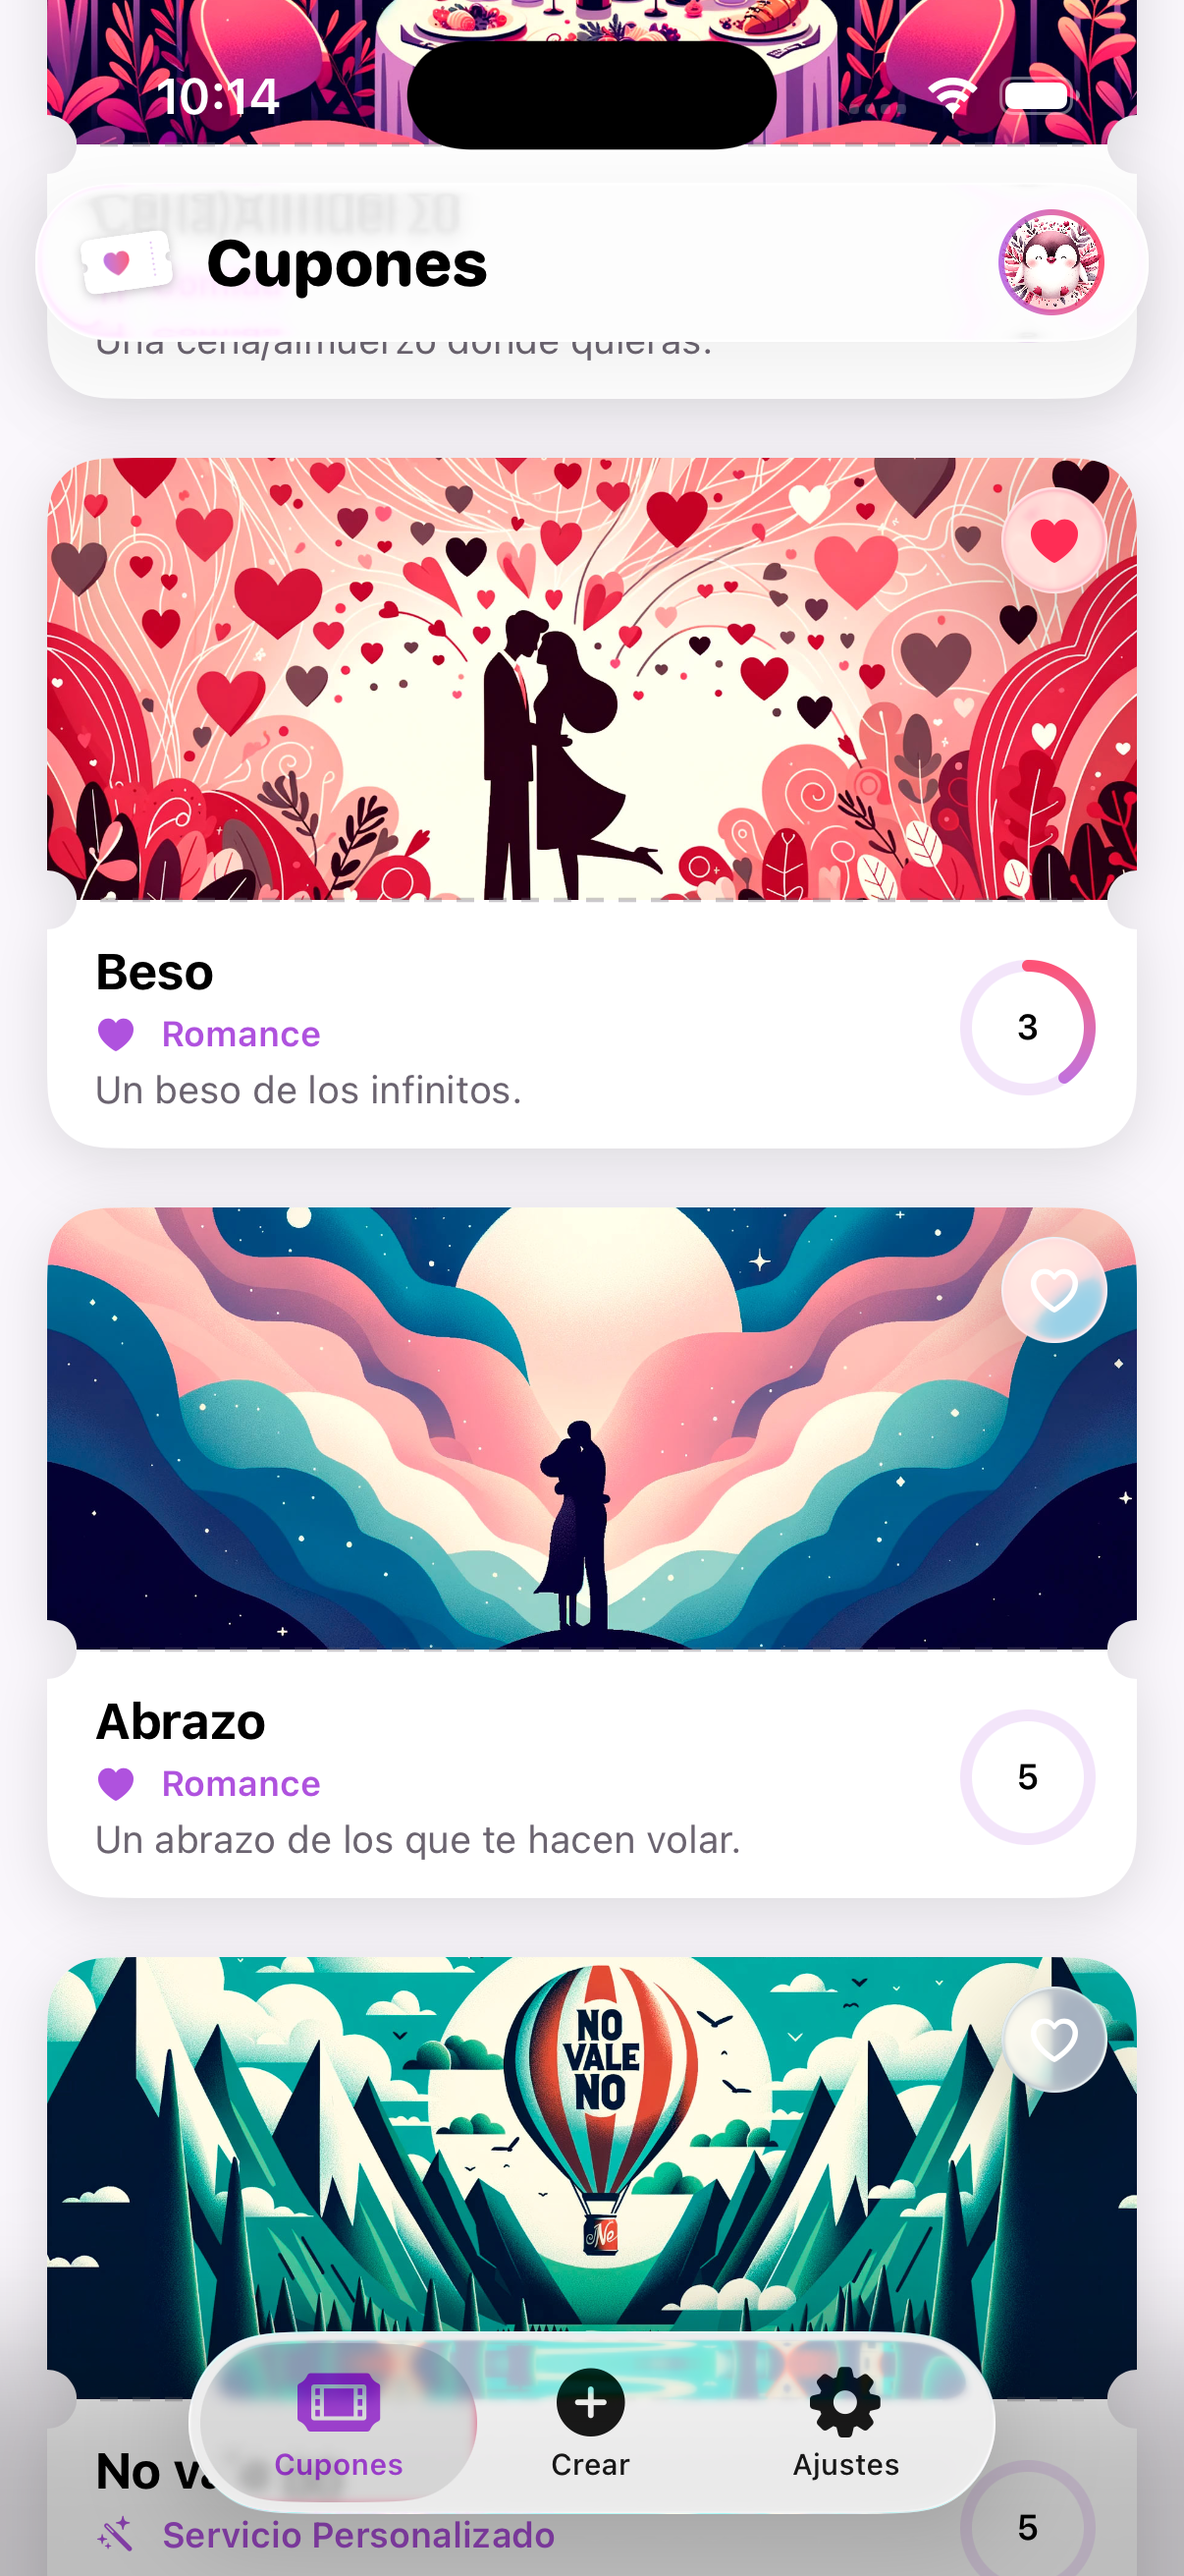
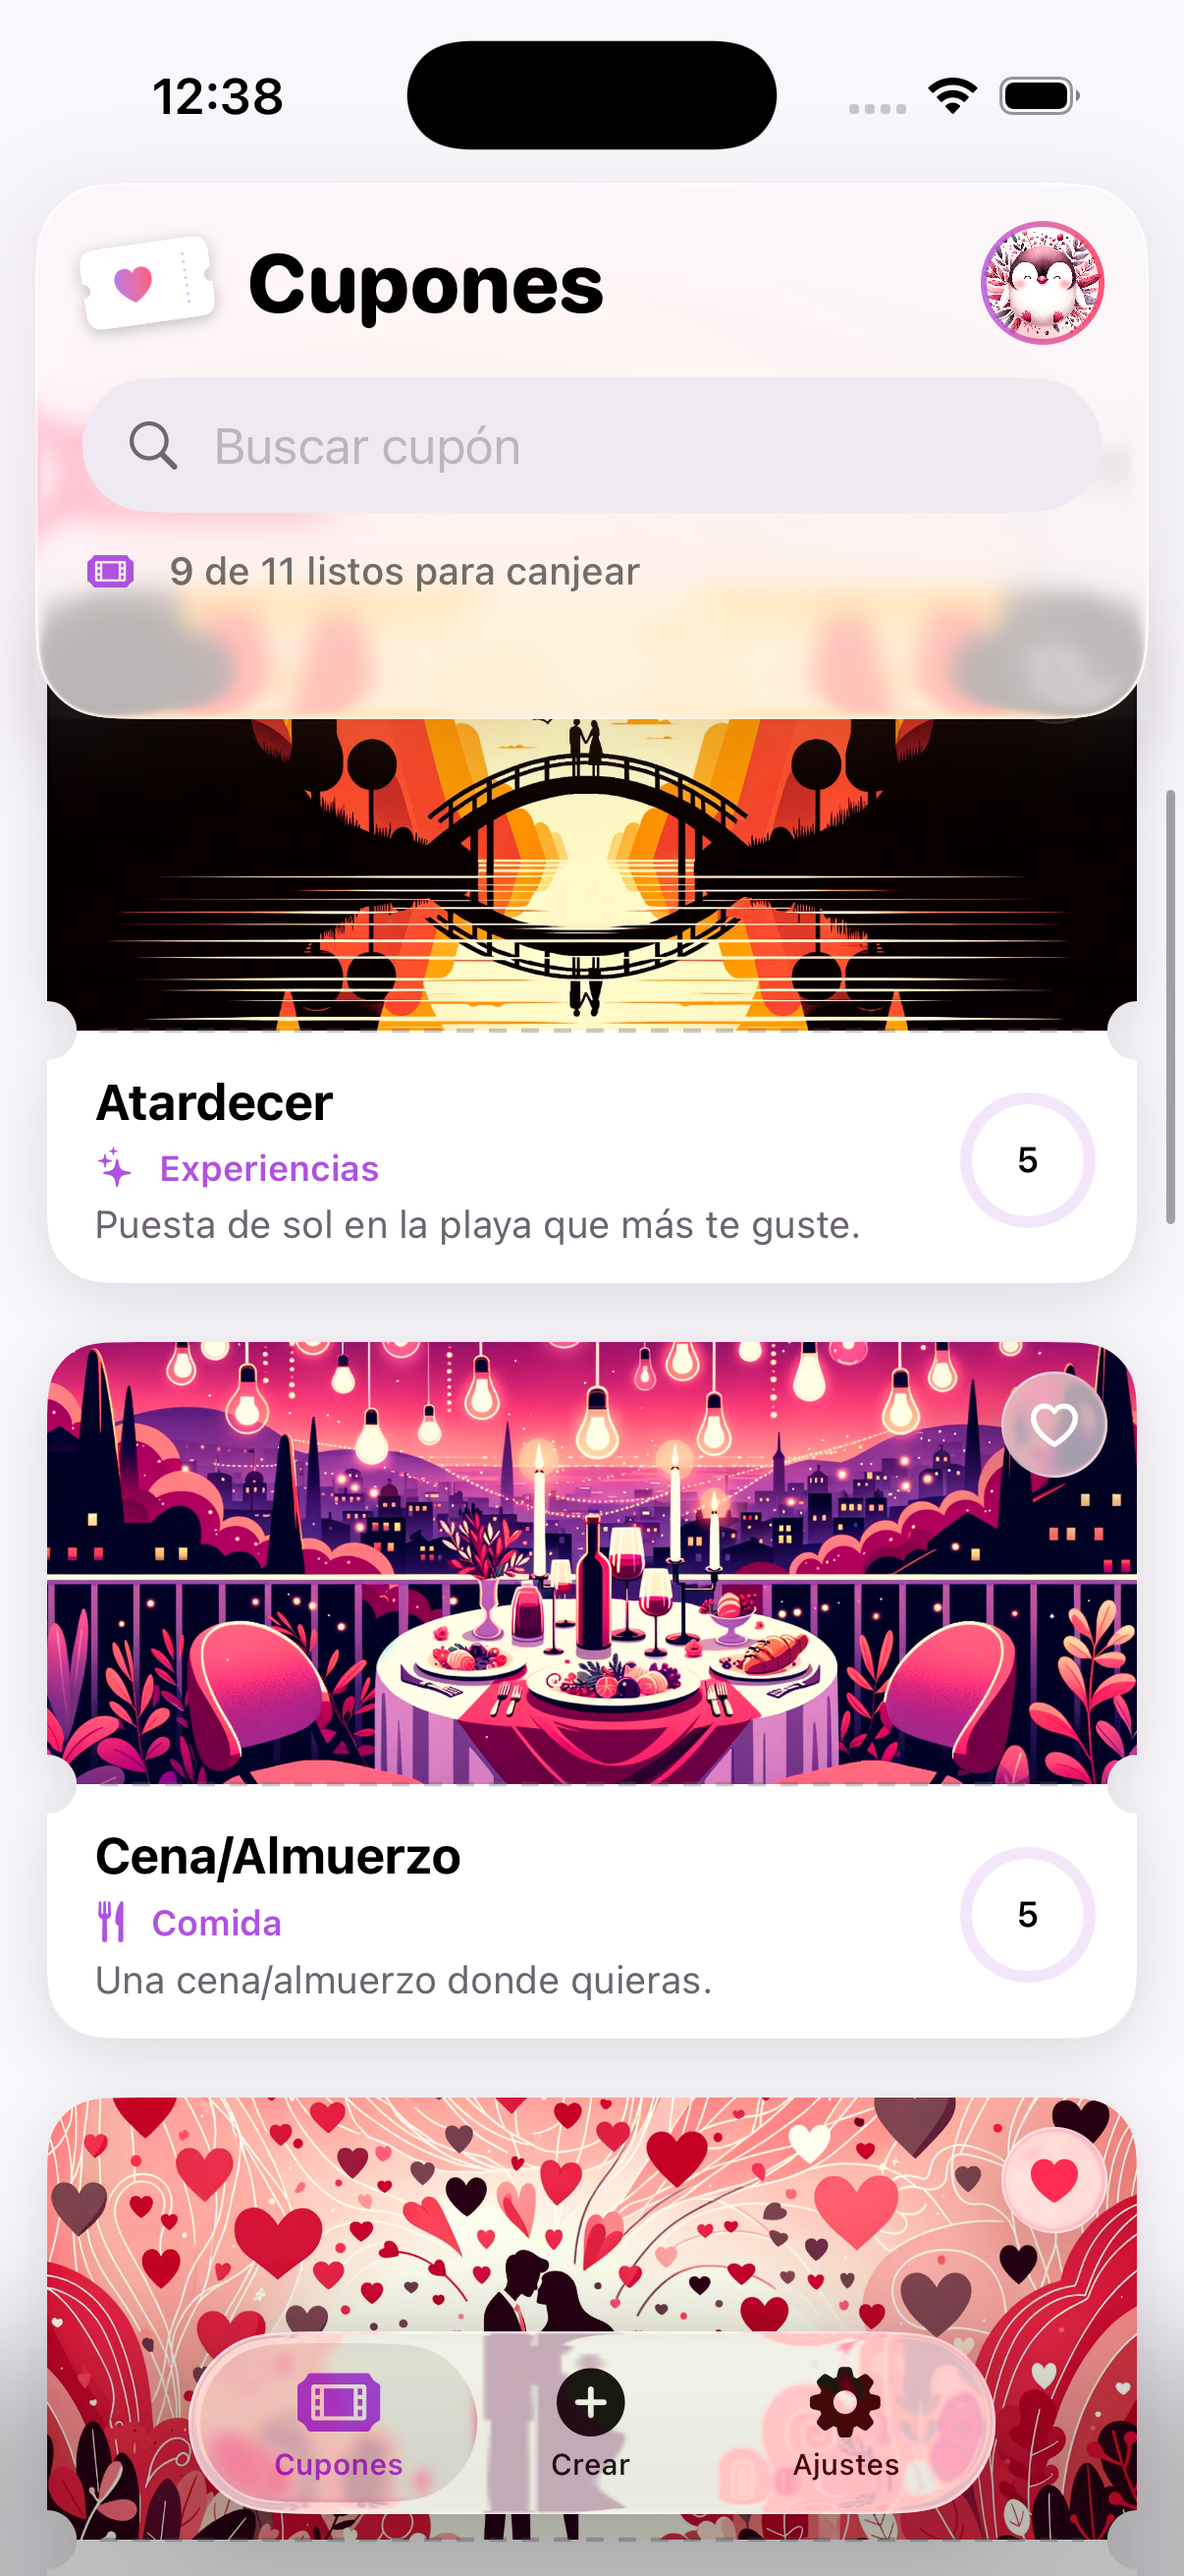
feat: animación de contracción real en las cabeceras
La cabecera vuelve a encoger con el scroll (mini ticket, título, avatar
y buscador se contraen; la barra de "listos" se pliega), estilo GasApp,
en Cupones, Ajustes y Crear. Se mantiene robusta:
- Los sub-elementos NO se quitan de la jerarquía, solo interpolan su
  altura a 0 → el inset cambia continuo y la cabecera vuelve a expandir
  al subir (antes se quedaba atascada colapsada).
- El progreso vive en @Observable ScrollCollapse → el scroll no
  re-renderiza la lista (sin freeze).
- BrandMark/título/avatar con scaleEffect (GPU) y sin .animation interna
  (no realimenta el layout, no cuelga el arranque).

diff --git a/cuponeame/UI/Components/BrandHeader.swift b/cuponeame/UI/Components/BrandHeader.swift
@@ -1,31 +1,50 @@
 import SwiftUI
 
-/// Progreso de colapso (0 = arriba, 1 = con scroll) en un objeto observable:
-/// así el scroll solo re-dibuja la barra compacta y NO la lista de cupones.
+/// Progreso de contracción (0 = expandida, 1 = contraída) en un objeto
+/// observable: así el scroll solo re-dibuja la cabecera y NO la lista.
 @Observable
 final class ScrollCollapse {
     var value: CGFloat = 0
 }
 
-/// Cabecera grande de cristal (mini ticket + título, buscador y contenido
-/// inferior opcionales). Va como PRIMER elemento del scroll y se desplaza con
-/// el contenido; al subir, `CompactHeaderBar` aparece fijada arriba.
+/// Cabecera de cristal que se CONTRAE al hacer scroll (patrón GasHeader): el
+/// mini ticket y el título encogen, y el buscador y el contenido inferior se
+/// pliegan hasta desaparecer. Se fija con `.safeAreaInset(.top)` y se alimenta
+/// con `.brandScrollTracking(_:)`.
+///
+/// Claves anti-fallos aprendidas:
+/// - El progreso vive en `collapse` (@Observable), no en @State de la pantalla
+///   → el scroll no re-renderiza la lista (si no, se congela).
+/// - Los sub-elementos NO se quitan de la jerarquía; solo interpolan su altura
+///   a 0 → el inset cambia de forma continua (si se quitan, se atasca).
+/// - Sin `.animation(value:)` interna → no realimenta el layout (colgaba).
 struct BrandHeader<Trailing: View>: View {
     let title: String
     var searchText: Binding<String>? = nil
+    var collapse: ScrollCollapse
     var bottom: AnyView? = nil
     @ViewBuilder var trailing: Trailing
 
     @FocusState private var searchFocused: Bool
+    @State private var bottomHeight: CGFloat = 44
+
+    private var clamped: CGFloat { min(max(collapse.value, 0), 1) }
+    private var expanded: CGFloat { 1 - clamped }
 
     var body: some View {
-        VStack(spacing: 12) {
+        VStack(spacing: 12 * expanded) {
             HStack(spacing: 12) {
                 BrandMark(width: 44)
+                    // scaleEffect (GPU) en vez de cambiar el frame: no recalcula
+                    // la forma ni la sombra en cada frame de scroll.
+                    .scaleEffect(1 - 0.32 * clamped, anchor: .leading)
+                    .frame(width: 44 * (1 - 0.32 * clamped), alignment: .leading)
                 Text(title)
                     .font(.system(size: 28, weight: .heavy, design: .rounded))
+                    .scaleEffect(1 - 0.18 * clamped, anchor: .leading)
                 Spacer()
                 trailing
+                    .scaleEffect(1 - 0.2 * clamped, anchor: .trailing)
             }
 
             if let searchText {
@@ -48,72 +67,47 @@ struct BrandHeader<Trailing: View>: View {
                     }
                 }
                 .padding(.horizontal, 14)
-                .frame(height: 46)
+                .frame(height: 46 * expanded)
                 .background(CuponColors.searchFill, in: Capsule())
+                .clipShape(Capsule())
+                .opacity(expanded)
             }
 
             if let bottom {
                 bottom
+                    .frame(height: bottomHeight * expanded, alignment: .top)
+                    .clipped()
+                    .opacity(expanded)
             }
         }
         .padding(.horizontal, 16)
-        .padding(.vertical, 14)
+        .padding(.vertical, 14 - 5 * clamped)
         .cuponGlass(cornerRadius: 26)
+        .padding(.horizontal, 12)
     }
 }
 
 extension BrandHeader where Trailing == EmptyView {
-    init(_ title: String, searchText: Binding<String>? = nil, bottom: AnyView? = nil) {
-        self.init(title: title, searchText: searchText, bottom: bottom) { EmptyView() }
-    }
-}
-
-/// Barra compacta de cristal que se fija arriba y aparece al hacer scroll.
-/// Al ir en `.overlay` NO cambia los insets del scroll: nada de bucles ni
-/// atascos como con un `safeAreaInset` de altura variable.
-struct CompactHeaderBar<Trailing: View>: View {
-    let title: String
-    var collapse: ScrollCollapse
-    @ViewBuilder var trailing: Trailing
-
-    private var shown: CGFloat { min(max(collapse.value, 0), 1) }
-
-    var body: some View {
-        HStack(spacing: 12) {
-            BrandMark(width: 30)
-            Text(title)
-                .font(.system(size: 20, weight: .heavy, design: .rounded))
-            Spacer()
-            trailing
-        }
-        .padding(.horizontal, 16)
-        .padding(.vertical, 9)
-        .cuponGlass(cornerRadius: 22)
-        .padding(.horizontal, 12)
-        .opacity(shown)
-        .allowsHitTesting(shown > 0.5)
-    }
-}
-
-extension CompactHeaderBar where Trailing == EmptyView {
-    init(_ title: String, collapse: ScrollCollapse) {
-        self.init(title: title, collapse: collapse) { EmptyView() }
+    init(_ title: String, collapse: ScrollCollapse,
+         searchText: Binding<String>? = nil, bottom: AnyView? = nil) {
+        self.init(title: title, searchText: searchText, collapse: collapse,
+                  bottom: bottom) { EmptyView() }
     }
 }
 
 extension View {
-    /// Alimenta el colapso desde el scroll (iOS 18+). Con la cabecera dentro del
-    /// scroll (sin safeAreaInset variable), `contentOffset.y + contentInsets.top`
-    /// es la distancia real desde arriba (0 en reposo) y el inset es constante.
+    /// Alimenta la contracción desde el scroll (iOS 18+). `contentOffset.y` es la
+    /// posición absoluta de scroll (no depende del alto de la cabecera), así que
+    /// no se realimenta al contraerse: la cabecera vuelve a expandir al subir.
     @ViewBuilder
     func brandScrollTracking(_ collapse: ScrollCollapse) -> some View {
         if #available(iOS 18.0, *) {
             onScrollGeometryChange(for: CGFloat.self) { geo in
                 geo.contentOffset.y + geo.contentInsets.top
             } action: { _, value in
-                // Aparece la barra compacta entre 40 y 110 pt de scroll.
-                let next = min(max((value - 40) / 70, 0), 1)
-                if abs(next - collapse.value) > 0.02 {
+                // Se contrae entre 0 y 70 pt de scroll.
+                let next = min(max(value / 70, 0), 1)
+                if abs(next - collapse.value) > 0.01 {
                     collapse.value = next
                 }
             }

diff --git a/cuponeame/UI/Coupons/CouponListScreen.swift b/cuponeame/UI/Coupons/CouponListScreen.swift
@@ -36,8 +36,6 @@ struct CouponListScreen: View {
         NavigationStack {
             ScrollView {
                 VStack(spacing: 16) {
-                    header
-
                     if store.coupons.isEmpty {
                         emptyState
                             .padding(.top, 40)
@@ -73,12 +71,7 @@ struct CouponListScreen: View {
             .brandScrollTracking(headerCollapse)
             .background(CuponColors.background)
             .scrollDismissesKeyboard(.interactively)
-            .overlay(alignment: .top) {
-                CompactHeaderBar(title: "Cupones", collapse: headerCollapse) {
-                    AvatarView(emoji: auth.avatar, size: 30)
-                        .overlay(Circle().stroke(CuponColors.brandStroke, lineWidth: 1.5))
-                }
-            }
+            .safeAreaInset(edge: .top, spacing: 0) { header }
             .toolbar(.hidden, for: .navigationBar)
             .navigationDestination(for: String.self) { id in
                 CouponDetailScreen(couponID: id)
@@ -93,6 +86,7 @@ struct CouponListScreen: View {
     private var header: some View {
         BrandHeader(title: "Cupones",
                     searchText: store.coupons.isEmpty ? nil : $searchText,
+                    collapse: headerCollapse,
                     bottom: store.coupons.isEmpty ? nil : AnyView(readyBar)) {
             AvatarView(emoji: auth.avatar, size: 40)
                 .overlay(Circle().stroke(CuponColors.brandStroke, lineWidth: 2))

diff --git a/cuponeame/UI/Settings/SettingsScreen.swift b/cuponeame/UI/Settings/SettingsScreen.swift
@@ -19,12 +19,6 @@ struct SettingsScreen: View {
     var body: some View {
         NavigationStack {
             Form {
-                Section {
-                    BrandHeader("Ajustes")
-                }
-                .listRowBackground(Color.clear)
-                .listRowInsets(EdgeInsets(top: 0, leading: 0, bottom: 8, trailing: 0))
-
                 profileCard
 
                 Section("Pareja") {
@@ -147,8 +141,8 @@ struct SettingsScreen: View {
                 }
             }
             .brandScrollTracking(headerCollapse)
-            .overlay(alignment: .top) {
-                CompactHeaderBar("Ajustes", collapse: headerCollapse)
+            .safeAreaInset(edge: .top, spacing: 0) {
+                BrandHeader("Ajustes", collapse: headerCollapse)
             }
             .toolbar(.hidden, for: .navigationBar)
             .task {

diff --git a/cuponeame/UI/Create/CreateHubScreen.swift b/cuponeame/UI/Create/CreateHubScreen.swift
@@ -15,8 +15,6 @@ struct CreateHubScreen: View {
         NavigationStack {
             ScrollView {
                 VStack(spacing: 20) {
-                    BrandHeader("Crear")
-
                     primaryCard
 
                     partnerCard
@@ -27,8 +25,8 @@ struct CreateHubScreen: View {
             }
             .brandScrollTracking(headerCollapse)
             .background(CuponColors.background)
-            .overlay(alignment: .top) {
-                CompactHeaderBar("Crear", collapse: headerCollapse)
+            .safeAreaInset(edge: .top, spacing: 0) {
+                BrandHeader("Crear", collapse: headerCollapse)
             }
             .toolbar(.hidden, for: .navigationBar)
             .navigationDestination(for: Route.self) { route in
